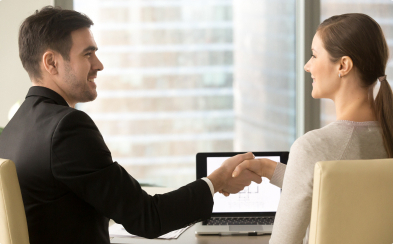
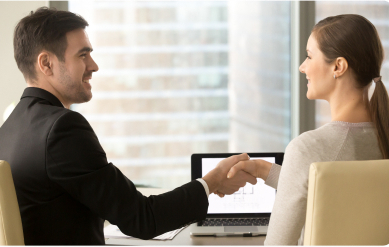
3 páginas do blog faltando somente o header

diff --git a/global.html b/global.html
@@ -1,0 +1,76 @@
+<!DOCTYPE html>
+<html lang="pt-BR">
+    <head>
+        <meta charset="UTF-8">
+        <meta http-equiv="X-UA-Compatible" content="IE=edge">
+        <meta name="viewport" content="width=device-width, initial-scale=1.0">
+        <title>Global Invest</title>
+
+        <link rel="preconnect" href="https://fonts.googleapis.com">
+        <link rel="preconnect" href="https://fonts.gstatic.com" crossorigin>
+        <link href="https://fonts.googleapis.com/css2?family=Poppins:ital,wght@0,100;0,200;0,300;0,400;0,500;0,600;0,700;0,800;0,900;1,100;1,200;1,300;1,400;1,500;1,600;1,700;1,800;1,900&display=swap" rel="stylesheet">
+
+        <link href="https://cdn.jsdelivr.net/npm/bootstrap@5.0.2/dist/css/bootstrap.min.css" rel="stylesheet"
+        integrity="sha384-EVSTQN3/azprG1Anm3QDgpJLIm9Nao0Yz1ztcQTwFspd3yD65VohhpuuCOmLASjC" crossorigin="anonymous">
+
+        <link rel="stylesheet" href="style_oque.css">
+        <link rel="stylesheet" href="style-card.css">
+
+    </head>
+
+    <body>
+        <h1>
+            Investimentos Internacionais
+        </h1>
+
+        <figure class="imagem">
+            <img src="imagens.jpg/investimento.jpg" alt="imagem de pessoas sentadas em volta de uma mesa com um quadro do mapa mundial ao fundo">
+        </figure>
+
+        <div class="texto">
+
+            <p>
+                Sua vida financeira no Brasil e no exterior em um só lugar, com câmbio instantâneo 24h sem precisar baixar vários apps ou ficar transferindo seu dinheiro de um lugar para o outro
+            </p>
+            
+            <p> 
+                Você faz tudo pelo app em poucos toques. É só informar os dados bancários de quem vai receber, o valor e o motivo da operação. Em até dois dias úteis, a transferência internacional estará concluída.
+            </p>
+
+            <p>
+                O primeiro passo é compartilhar os dados da sua Conta Global Dólar que você pode consultar pelo app  com quem vai transferir o dinheiro. Assim que a transação for realizada, você vai receber um aviso para informar o motivo da transferência. Os dólares estarão disponíveis na sua Conta Global em até 2 dias úteis após essa confirmação.
+            </p>
+           
+            <p>
+                Você pode sacar dólares em caixas do Chase nos EUA sem pagar tarifa. Também é possível fazer saques em moeda local nos mais de 2 milhões de caixas da rede Cirrus, com tarifa de US$ 5, para a Conta Global Dólar, ou € 5, para a Conta Global Euro.
+            </p>
+
+        </div>
+
+        <footer>
+            <div class="footer-info">
+                <div>
+                    <h5 class="card-title">Sobre Nós</h5>
+                    <p class="card-text">Somos Um banco transparente e completo com produtos exclusivos.</p>
+                </div>
+                <div>
+                    <h5 class="card-title">Conecte-se conosco</h5>
+                    <div class="social-icons">
+                        <img src="./assets/icon-email.svg" alt="">
+                        <img src="./assets/icon-facebook.svg" alt="">
+                        <img src="./assets/icon-twitter.svg" alt="">
+                        <img src="./assets/icon-instagram.svg" alt="">
+                    </div>
+                </div>
+                <div>
+                    <h5 class="card-title">Contatos</h5>
+                    <p class="card-text">contato@pgpay.com.br</p>
+                    <p class="card-text">+55 11 3213 5001</p>
+                </div>
+            </div>
+    
+            <div class="copy">© 2022 PGpay - All rights reserved.</div>
+        </footer>
+    </body>
+
+</html>

diff --git a/diversificacao.html b/diversificacao.html
@@ -4,27 +4,31 @@
         <meta charset="UTF-8">
         <meta http-equiv="X-UA-Compatible" content="IE=edge">
         <meta name="viewport" content="width=device-width, initial-scale=1.0">
-        <title>Diversificação de Investimento</title>
+        <title>Diversificação</title>
 
         <link rel="preconnect" href="https://fonts.googleapis.com">
         <link rel="preconnect" href="https://fonts.gstatic.com" crossorigin>
         <link href="https://fonts.googleapis.com/css2?family=Poppins:ital,wght@0,100;0,200;0,300;0,400;0,500;0,600;0,700;0,800;0,900;1,100;1,200;1,300;1,400;1,500;1,600;1,700;1,800;1,900&display=swap" rel="stylesheet">
-        <link rel="stylesheet" href="style_diversificacao.css">
+
+        <link href="https://cdn.jsdelivr.net/npm/bootstrap@5.0.2/dist/css/bootstrap.min.css" rel="stylesheet"
+        integrity="sha384-EVSTQN3/azprG1Anm3QDgpJLIm9Nao0Yz1ztcQTwFspd3yD65VohhpuuCOmLASjC" crossorigin="anonymous">
+
+        <link rel="stylesheet" href="style_oque.css">
+        <link rel="stylesheet" href="style-card.css">
+
     </head>
 
     <body>
 
-        <header><img src="./assets/PG-text-white-bg-blue.svg" alt=""></header>
+        <h1>
+            Diversificação de investimento, por que é tão importante
+        </h1>
 
         <figure class="imagem">
-            <img src="imagens.jpg/diversificacao.jpg" alt="">
+            <img src="imagens.jpg/diversificacao.jpg" alt="Um homem e uma mulher sentados se cumprimentando">
         </figure>
 
-        <div class="diversificação">
-
-            <h2>
-                Diversificação de investimento,<br> por que é tão importante
-            </h2>
+        <div class="texto">
 
             <p>
                 Você já sabe que a adição aleatória de ativos na sua carteira causa um efeito adverso daquele proporcionado por uma diversificação profissional. O ponto central do processo depende de um planejamento estratégico confiável, ou seja, que tenha sido testado e aprovado. Além disso, espera-se que ele esteja atrelado ao planejamento financeiro individual do investidor.
@@ -50,10 +54,31 @@
 
         </div>
 
-        <nav>
-            <a href="index.html" target="_blank">Voltar ao menu principal</a>
-        </nav>
-        
+        <footer>
+            <div class="footer-info">
+                <div>
+                    <h5 class="card-title">Sobre Nós</h5>
+                    <p class="card-text">Somos Um banco transparente e completo com produtos exclusivos.</p>
+                </div>
+                <div>
+                    <h5 class="card-title">Conecte-se conosco</h5>
+                    <div class="social-icons">
+                        <img src="./assets/icon-email.svg" alt="">
+                        <img src="./assets/icon-facebook.svg" alt="">
+                        <img src="./assets/icon-twitter.svg" alt="">
+                        <img src="./assets/icon-instagram.svg" alt="">
+                    </div>
+                </div>
+                <div>
+                    <h5 class="card-title">Contatos</h5>
+                    <p class="card-text">contato@pgpay.com.br</p>
+                    <p class="card-text">+55 11 3213 5001</p>
+                </div>
+            </div>
+    
+            <div class="copy">© 2022 PGpay - All rights reserved.</div>
+        </footer>
+               
     </body>
 
 </html>

diff --git a/oque.html b/oque.html
@@ -9,24 +9,25 @@
         <link rel="preconnect" href="https://fonts.googleapis.com">
         <link rel="preconnect" href="https://fonts.gstatic.com" crossorigin>
         <link href="https://fonts.googleapis.com/css2?family=Poppins:ital,wght@0,100;0,200;0,300;0,400;0,500;0,600;0,700;0,800;0,900;1,100;1,200;1,300;1,400;1,500;1,600;1,700;1,800;1,900&display=swap" rel="stylesheet">
+
+        <link href="https://cdn.jsdelivr.net/npm/bootstrap@5.0.2/dist/css/bootstrap.min.css" rel="stylesheet"
+        integrity="sha384-EVSTQN3/azprG1Anm3QDgpJLIm9Nao0Yz1ztcQTwFspd3yD65VohhpuuCOmLASjC" crossorigin="anonymous">
+
         <link rel="stylesheet" href="style_oque.css">
+        <link rel="stylesheet" href="style-card.css">
+
     </head>
 
-
     <body>
-
-        <header><img src="./assets/PG-text-white-bg-blue.svg" alt=""></header>
+        <h1>
+            O que é um banco digital?
+        </h1>
 
         <figure class="imagem">
             <img src="imagens.jpg/banco.jpg" alt="imagem de predios modernos">
         </figure>
 
-        <div class="oque">
-
-            <h2>
-                O que é um banco digital?
-            </h2>
-
+        <div class="texto">
             <p> 
                 Cada dia mais comum e difundido entre os brasileiros, os bancos digitais online são instituições financeiras que executam suas atividades de forma 100% online. Ou seja, praticamente tudo que o cliente precisa é feito por um celular com acesso à internet.
             </p>
@@ -57,15 +58,32 @@
             <p>
                 É exatamente por conta dessa redução de custos que os bancos digitais conseguem oferecer serviços mais baratos ou até mesmo gratuitos aos seus clientes.
             </p>
-
         </div>
 
-        <nav>
-            <a href="index.html" target="_blank">Voltar ao menu principal</a>
-        </nav>
-
-       
-        
+        <footer>
+            <div class="footer-info">
+                <div>
+                    <h5 class="card-title">Sobre Nós</h5>
+                    <p class="card-text">Somos Um banco transparente e completo com produtos exclusivos.</p>
+                </div>
+                <div>
+                    <h5 class="card-title">Conecte-se conosco</h5>
+                    <div class="social-icons">
+                        <img src="./assets/icon-email.svg" alt="">
+                        <img src="./assets/icon-facebook.svg" alt="">
+                        <img src="./assets/icon-twitter.svg" alt="">
+                        <img src="./assets/icon-instagram.svg" alt="">
+                    </div>
+                </div>
+                <div>
+                    <h5 class="card-title">Contatos</h5>
+                    <p class="card-text">contato@pgpay.com.br</p>
+                    <p class="card-text">+55 11 3213 5001</p>
+                </div>
+            </div>
+    
+            <div class="copy">© 2022 PGpay - All rights reserved.</div>
+        </footer>
     </body>
 
 </html>

diff --git a/style_oque.css b/style_oque.css
@@ -1,39 +1,54 @@
-:root{
-    --bg-primary: #0057ff;
-    --bg-secondary: #24d278;
-  }
-  
-  body {
-    /* height: 100vh;
-    width: 100vw; */
-    background-image: linear-gradient(45deg, var(--bg-primary), var(--bg-secondary));
-    color: white;
-    font-family: 'Poppins', sans-serif;
-  }
-  
-  .imagem {
-    text-align: center;
-  }
 
-  .imagem img {
-    border-radius: 15px;
-    width: 322px;
-  }
 
-  h2{
-    font-size: 50px;
-    text-align: center;
-  }
+* {
+  padding: 0;
+  margin: 0;
+}
 
-  nav {
-    text-align: center;
-  }
-    
-  
-  nav a {
-    text-decoration: none;
-    color: darkgreen
-  }
+body {
+  font-family: 'Poppins', sans-serif;
+}
+
+h1 {
+  height: 68px;
+  font-size: 45px;
+  font-style: bold;
+  text-align: center;
+  line-height: 68px;
+  vertical-align: top;
+  color: #393939;
+  margin-bottom: 58px;
+}
+
+.imagem {
+  text-align: center;
+}
+
+.imagem img {
+  width: 897px;
+  height: 590px;
+  top: 58px;
+  left: 271.5px;
+  margin-bottom: 110px;
+}
+
+.texto p {
+  top: 1440px;
+  padding: 10px 280px;
+  gap: 10px;
+}
+
+.texto ul {
+  padding: 10px 280px;
+  gap: 10px;
+}
+
+footer {
+  margin-top: 110px;
+}
+
+
+
   
 
     

diff --git a/style_diversificacao.css b/style_diversificacao.css
@@ -1,42 +1,47 @@
-:root{
-    --bg-primary: #0057ff;
-    --bg-secondary: #24d278;
-  }
+
+* {
+  padding: 0;
+  margin: 0;
+}
 
 body {
-    /* height: 100vh;
-    width: 100vw; */
-  
     font-family: 'Poppins', sans-serif;
-  }
+}
 
-  header {
-    background-image: linear-gradient(45deg, var(--bg-primary), var(--bg-secondary));
-  }
-  
-  
-  .imagem {
-    text-align: center;
-  }
+h1 {
+ 
+  font-size: 45px;
+  font-style: bold;
+  text-align: center;
+  line-height: 68px;
+  vertical-align: top;
+  color: #393939;
+}
+ 
+.imagem {
+  text-align: center;
+}
 
-  .imagem img {
-    border-radius: 15px;
-    width: 322px;
-  }
+.imagem img {
+  width: 897px;
+  height: 590px;
+  margin-top: 58px;
+  left: 271.5px;
+  margin-bottom: 110px;
+}
 
-  h2{
-    font-size: 50px;
-    text-align: center;
-  }
+.texto p {
+  top: 1440px;
+  padding: 10px 280px;
+  gap: 10px;
+}
 
-  nav {
-    text-align: center;
-    background-image: linear-gradient(45deg, var(--bg-primary), var(--bg-secondary));
-  }
-    
-  
-  nav a {
-    text-decoration: none;
-    color: black
-  }
+.texto ul {
+  padding: 10px 280px;
+  gap: 10px;
+}
+
+footer {
+  margin-top: 110px;
+}
   
